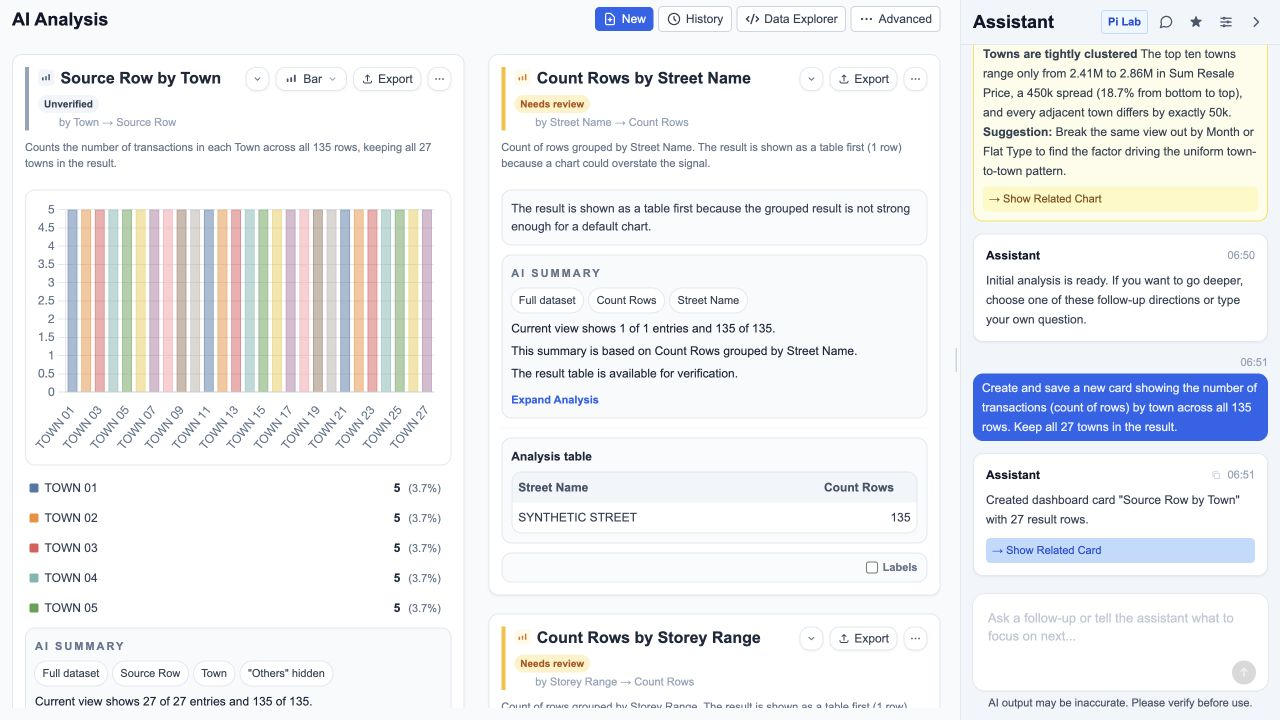
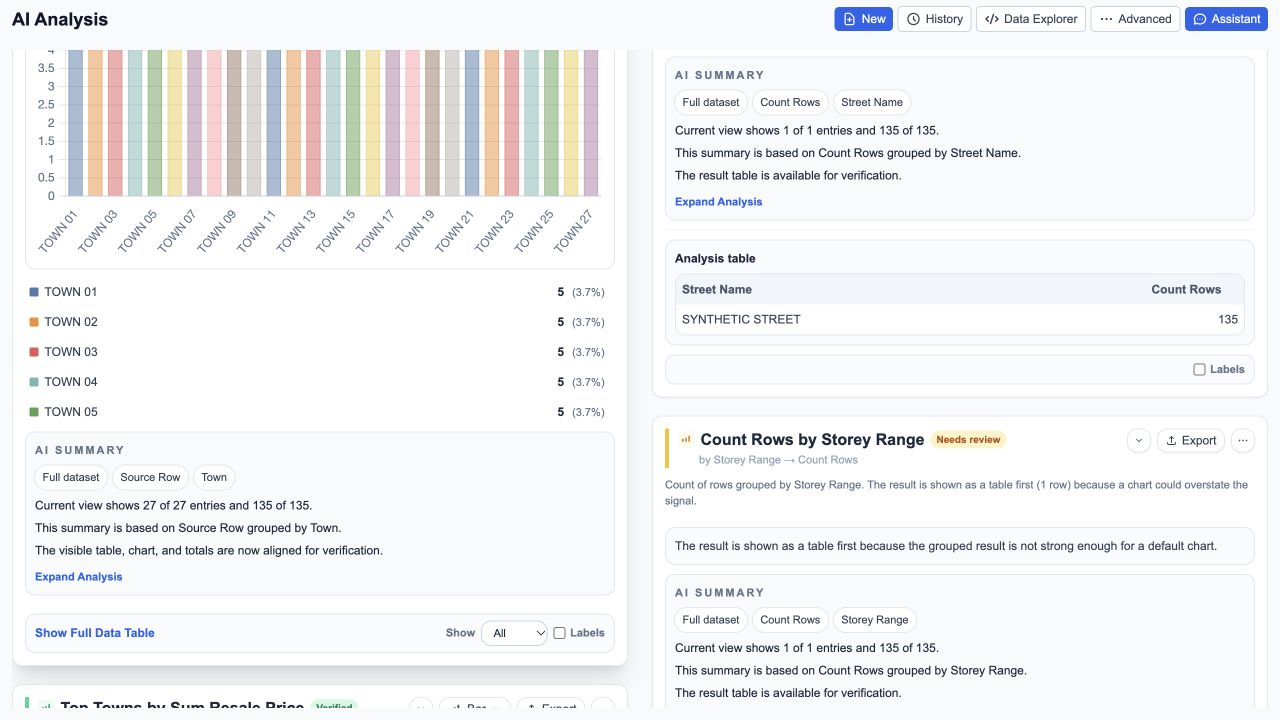
Avoid hidden Others claim in full-group cards

diff --git a/assets/csv_data_analysis_index-cW2KBJir.js b/assets/csv_data_analysis_index-cW2KBJir.js
@@ -1,4 +1,4 @@
-const __vite__mapDeps=(i,m=__vite__mapDeps,d=(m.f||(m.f=["./csv_data_analysis_vendor-ai-sdk-CVLr31yf.js","./csv_data_analysis_vendor-data-gCZ_DPYi.js","./csv_data_analysis_vendor-storage-Dda2oZrY.js","./csv_data_analysis_vendor-ai-google-Brpu0J-t.js","./csv_data_analysis_vendor-ai-openai-B8_yEsiF.js","./csv_data_analysis_ChatPanel-lyVSNLAO.js","./csv_data_analysis_vendor-react-core-DlbdMisc.js","./csv_data_analysis_vendor-state-CMf1uPe1.js","./csv_data_analysis_MarkdownRenderer-Csj8Hd6A.js","./csv_data_analysis_vendor-ui-BoCHqsEI.js","./csv_data_analysis_IconInsights-C-7nPICp.js","./csv_data_analysis_IconSettings-FS0PVK9T.js","./csv_data_analysis_IconMemory-Cs1fVUAV.js","./csv_data_analysis_IconAi-DV4Egu6s.js","./csv_data_analysis_AnalysisPanel-Q-CjNRZf.js","./csv_data_analysis_exportUtils-DfKSpD2m.js","./csv_data_analysis_IconClose-DoCpdGZg.js","./csv_data_analysis_TabulatorTable-D7JHuTAm.js","./csv_data_analysis_CleaningRunBanner-2V0oRz3I.js","./csv_data_analysis_AiTaskStatusBubble-Doqce9NC.js","./csv_data_analysis_IconSearch-j9OYkQx7.js","./csv_data_analysis_SpreadsheetPanel-7V1Z8_nN.js","./csv_data_analysis_SettingsModal-BsH-K-2a.js","./csv_data_analysis_HistoryPanel-Dal6RYkE.js","./csv_data_analysis_MemoryPanel-C8EgJCY8.js","./csv_data_analysis_AgentMonitorModal-8JBP4uk2.js","./csv_data_analysis_AgentActivityView-IeDdzTlW.js","./csv_data_analysis_DatabaseModal-B30pMha_.js","./csv_data_analysis_WorkspaceModal-CRpK5Igs.js","./csv_data_analysis_DataPreparationWorkflowModal-CfjKycZv.js","./csv_data_analysis_copyText-Di0nQNpb.js","./csv_data_analysis_DebugLogsModal-xCIO4jSe.js","./csv_data_analysis_ReportBoundaryConfirmModal-B2qKczNU.js","./csv_data_analysis_ApiKeyRequiredModal-HbiCcKkw.js","./csv_data_analysis_CloudAiConsentModal-B7JIo0IY.js"])))=>i.map(i=>d[i]);
+const __vite__mapDeps=(i,m=__vite__mapDeps,d=(m.f||(m.f=["./csv_data_analysis_vendor-ai-sdk-CVLr31yf.js","./csv_data_analysis_vendor-data-gCZ_DPYi.js","./csv_data_analysis_vendor-storage-Dda2oZrY.js","./csv_data_analysis_vendor-ai-google-Brpu0J-t.js","./csv_data_analysis_vendor-ai-openai-B8_yEsiF.js","./csv_data_analysis_ChatPanel-BS6xyxX3.js","./csv_data_analysis_vendor-react-core-DlbdMisc.js","./csv_data_analysis_vendor-state-CMf1uPe1.js","./csv_data_analysis_MarkdownRenderer-CTTp8qpO.js","./csv_data_analysis_vendor-ui-BoCHqsEI.js","./csv_data_analysis_IconInsights-C-7nPICp.js","./csv_data_analysis_IconSettings-FS0PVK9T.js","./csv_data_analysis_IconMemory-Cs1fVUAV.js","./csv_data_analysis_IconAi-DV4Egu6s.js","./csv_data_analysis_AnalysisPanel-CnWI_bBg.js","./csv_data_analysis_exportUtils-DfKSpD2m.js","./csv_data_analysis_IconClose-DoCpdGZg.js","./csv_data_analysis_TabulatorTable-D7JHuTAm.js","./csv_data_analysis_CleaningRunBanner-2V0oRz3I.js","./csv_data_analysis_AiTaskStatusBubble-DfoegMKQ.js","./csv_data_analysis_IconSearch-j9OYkQx7.js","./csv_data_analysis_SpreadsheetPanel-CU38_U4E.js","./csv_data_analysis_SettingsModal-DhUe-SH_.js","./csv_data_analysis_HistoryPanel-Cky4aLgO.js","./csv_data_analysis_MemoryPanel-B_0fJd6X.js","./csv_data_analysis_AgentMonitorModal-B7mENyJQ.js","./csv_data_analysis_AgentActivityView-IeDdzTlW.js","./csv_data_analysis_DatabaseModal-BApV_YK5.js","./csv_data_analysis_WorkspaceModal-Y41vWl9t.js","./csv_data_analysis_DataPreparationWorkflowModal-BpnjVhNN.js","./csv_data_analysis_copyText-Di0nQNpb.js","./csv_data_analysis_DebugLogsModal-CLlxi0sh.js","./csv_data_analysis_ReportBoundaryConfirmModal-BAmJ4clz.js","./csv_data_analysis_ApiKeyRequiredModal-2ikhZ6bu.js","./csv_data_analysis_CloudAiConsentModal-SDwVXITa.js"])))=>i.map(i=>d[i]);
 import { r as reactDomExports, j as jsxRuntimeExports, a as reactExports, W as We, R as ReactDOM } from "./csv_data_analysis_vendor-react-core-DlbdMisc.js";
 import { b as buildCloudAiConsentKey, s as shouldAllowAgentThinkingSurface, a as shouldAllowLongTermMemorySurface, c as shouldAllowLogsSurface, d as shouldAllowWorkflowSurface, e as shouldAllowWorkspaceSurface, f as shouldAllowDatabaseSurface, g as shouldAllowSettingsSurface, h as grantCloudAiConsent, i as getDefaultSettings, _ as __vitePreload, n as normalizeRuntimeAccessControlSettings, j as normalizeAppLanguage, k as saveSettings, l as createId, m as disposeDuckDbQueryEngine, o as getReport, C as CURRENT_SESSION_KEY, v as vectorStore, p as deleteReport, q as createIdleDuckDbSessionStatus, r as saveReport, t as deleteOriginalData, u as parseReportArtifactManifest, w as loadReportArtifactHtml, x as printReportArtifact, y as openReportArtifact, z as purgeAllStorage, A as normalizeRestoredAppState, B as resolveReportMemoryScope, D as hydrateLatestReportWorkspaceFiles, E as normalizeRestoredGoalState, F as restoreAgentActivityHistory, G as normalizeSavedReportPendingMemoryDocuments, H as normalizeSavedAgentMemoryRuns, I as normalizeSavedAgentMemoryRun, J as normalizeSavedReportMemoryDocuments, K as appendUnfinishedCleaningNotice, L as getReportsList, M as createChatMessage, N as navigateToCard, O as buildColumnRegistry, P as duckDbWorkerClient, Q as DUCKDB_INIT_TIMEOUT_MS, R as profileDataWithWorker, S as createBindingDuckDbSessionStatus, T as getOriginalData, U as getTranslation, V as getAllowedColumns, W as createProgressMessage, X as trimProgressMessages, Y as isDuckDbSessionStatusEqual, Z as primeDuckDbDataset, $ as createDuckDbSessionStatusFromBinding, a0 as captureHistoryAnalysisSnapshot, a1 as getRestoredHistoryAnalysisState, a2 as buildEffectiveColumnRegistryFromState, a3 as createWorkerDiagnosticsTelemetryReporter, a4 as parseCardMentions, a5 as buildCorrelationFields, a6 as toSerializable, a7 as normalizeAgentActivityEvent, a8 as LATEST_REPORT_MANIFEST_PATH, a9 as hasOpenableLatestReport, aa as getCurrentAnalysisDatasetVersion, ab as LATEST_REPORT_HTML_PATH, ac as generateAnalystReportArtifacts, ad as saveReportArtifacts, ae as buildPersistedReportRecord, af as isRuntimeAbortError, ag as recordLocalDiagnosticBestEffort, ah as projectToolLogToActivity, ai as projectRuntimeEventToActivity, aj as getSettings, ak as configureCloudAiConsentRuntime, al as configureLocalDiagnosticContext, am as shouldShowNewSessionButton, an as shouldShowHistoryButton, ao as shouldShowDatabaseButton, ap as shouldShowWorkflowButton, aq as shouldShowLogsButton, ar as shouldShowChangeGoalButton, as as shouldShowAssistantToggleButton, at as buildPersistedAppStateSignature, au as checkStorageHealth, av as persistCurrentAppSessionSnapshot, aw as APP_HEADER_HIDE_FOR_CARD_NAVIGATION_EVENT, ax as shouldShowAgentThinkingModal, ay as shouldShowLongTermMemory, az as formatUserError } from "./csv_data_analysis_app-agent-D8-dGKW6.js";
 import { c as createWithEqualityFn, s as shallow$1 } from "./csv_data_analysis_vendor-state-CMf1uPe1.js";
@@ -4829,20 +4829,20 @@ const PwaStatusBanner = () => {
     )
   ] });
 };
-const ChatPanel = reactExports.lazy(() => __vitePreload(() => import("./csv_data_analysis_ChatPanel-lyVSNLAO.js"), true ? __vite__mapDeps([5,0,1,2,3,4,6,7,8,9,10,11,12,13]) : void 0, import.meta.url).then((m) => ({ default: m.ChatPanel })));
-const AnalysisPanel = reactExports.lazy(() => __vitePreload(() => import("./csv_data_analysis_AnalysisPanel-Q-CjNRZf.js"), true ? __vite__mapDeps([14,6,7,10,8,9,0,1,2,3,4,15,16,17,18,19,20,11]) : void 0, import.meta.url).then((m) => ({ default: m.AnalysisPanel })));
-const SpreadsheetPanel = reactExports.lazy(() => __vitePreload(() => import("./csv_data_analysis_SpreadsheetPanel-7V1Z8_nN.js"), true ? __vite__mapDeps([21,6,17,9,0,1,2,3,4,16,13,20,7,18,10]) : void 0, import.meta.url).then((m) => ({ default: m.SpreadsheetPanel })));
-const SettingsModal = reactExports.lazy(() => __vitePreload(() => import("./csv_data_analysis_SettingsModal-BsH-K-2a.js"), true ? __vite__mapDeps([22,6,7,0,1,2,3,4]) : void 0, import.meta.url).then((module) => ({ default: module.SettingsModal })));
-const HistoryPanel = reactExports.lazy(() => __vitePreload(() => import("./csv_data_analysis_HistoryPanel-Dal6RYkE.js"), true ? __vite__mapDeps([23,6,7,0,1,2,3,4,16]) : void 0, import.meta.url).then((module) => ({ default: module.HistoryPanel })));
-const MemoryPanel = reactExports.lazy(() => __vitePreload(() => import("./csv_data_analysis_MemoryPanel-C8EgJCY8.js"), true ? __vite__mapDeps([24,6,0,1,2,3,4,16,12,7]) : void 0, import.meta.url).then((module) => ({ default: module.MemoryPanel })));
-const AgentMonitorModal = reactExports.lazy(() => __vitePreload(() => import("./csv_data_analysis_AgentMonitorModal-8JBP4uk2.js"), true ? __vite__mapDeps([25,6,7,16,19,20,11,0,1,2,3,4,26]) : void 0, import.meta.url).then((module) => ({ default: module.AgentMonitorModal })));
-const DatabaseModal = reactExports.lazy(() => __vitePreload(() => import("./csv_data_analysis_DatabaseModal-B30pMha_.js"), true ? __vite__mapDeps([27,6,7,17,9,0,1,2,3,4,16]) : void 0, import.meta.url).then((module) => ({ default: module.DatabaseModal })));
-const WorkspaceModal = reactExports.lazy(() => __vitePreload(() => import("./csv_data_analysis_WorkspaceModal-CRpK5Igs.js"), true ? __vite__mapDeps([28,0,1,2,3,4,6,7,16]) : void 0, import.meta.url).then((module) => ({ default: module.WorkspaceModal })));
-const DataPreparationWorkflowModal = reactExports.lazy(() => __vitePreload(() => import("./csv_data_analysis_DataPreparationWorkflowModal-CfjKycZv.js"), true ? __vite__mapDeps([29,6,7,0,1,2,3,4,30,16,26,15]) : void 0, import.meta.url).then((module) => ({ default: module.DataPreparationWorkflowModal })));
-const DebugLogsModal = reactExports.lazy(() => __vitePreload(() => import("./csv_data_analysis_DebugLogsModal-xCIO4jSe.js"), true ? __vite__mapDeps([31,6,7,0,1,2,3,4,30,16]) : void 0, import.meta.url).then((module) => ({ default: module.DebugLogsModal })));
-const ReportBoundaryConfirmModal = reactExports.lazy(() => __vitePreload(() => import("./csv_data_analysis_ReportBoundaryConfirmModal-B2qKczNU.js"), true ? __vite__mapDeps([32,6,0,1,2,3,4,7]) : void 0, import.meta.url).then((module) => ({ default: module.ReportBoundaryConfirmModal })));
-const ApiKeyRequiredModal = reactExports.lazy(() => __vitePreload(() => import("./csv_data_analysis_ApiKeyRequiredModal-HbiCcKkw.js"), true ? __vite__mapDeps([33,6,0,1,2,3,4,7]) : void 0, import.meta.url).then((module) => ({ default: module.ApiKeyRequiredModal })));
-const CloudAiConsentModal = reactExports.lazy(() => __vitePreload(() => import("./csv_data_analysis_CloudAiConsentModal-B7JIo0IY.js"), true ? __vite__mapDeps([34,6,7,0,1,2,3,4]) : void 0, import.meta.url).then((module) => ({ default: module.CloudAiConsentModal })));
+const ChatPanel = reactExports.lazy(() => __vitePreload(() => import("./csv_data_analysis_ChatPanel-BS6xyxX3.js"), true ? __vite__mapDeps([5,0,1,2,3,4,6,7,8,9,10,11,12,13]) : void 0, import.meta.url).then((m) => ({ default: m.ChatPanel })));
+const AnalysisPanel = reactExports.lazy(() => __vitePreload(() => import("./csv_data_analysis_AnalysisPanel-CnWI_bBg.js"), true ? __vite__mapDeps([14,6,7,10,8,9,0,1,2,3,4,15,16,17,18,19,20,11]) : void 0, import.meta.url).then((m) => ({ default: m.AnalysisPanel })));
+const SpreadsheetPanel = reactExports.lazy(() => __vitePreload(() => import("./csv_data_analysis_SpreadsheetPanel-CU38_U4E.js"), true ? __vite__mapDeps([21,6,17,9,0,1,2,3,4,16,13,20,7,18,10]) : void 0, import.meta.url).then((m) => ({ default: m.SpreadsheetPanel })));
+const SettingsModal = reactExports.lazy(() => __vitePreload(() => import("./csv_data_analysis_SettingsModal-DhUe-SH_.js"), true ? __vite__mapDeps([22,6,7,0,1,2,3,4]) : void 0, import.meta.url).then((module) => ({ default: module.SettingsModal })));
+const HistoryPanel = reactExports.lazy(() => __vitePreload(() => import("./csv_data_analysis_HistoryPanel-Cky4aLgO.js"), true ? __vite__mapDeps([23,6,7,0,1,2,3,4,16]) : void 0, import.meta.url).then((module) => ({ default: module.HistoryPanel })));
+const MemoryPanel = reactExports.lazy(() => __vitePreload(() => import("./csv_data_analysis_MemoryPanel-B_0fJd6X.js"), true ? __vite__mapDeps([24,6,0,1,2,3,4,16,12,7]) : void 0, import.meta.url).then((module) => ({ default: module.MemoryPanel })));
+const AgentMonitorModal = reactExports.lazy(() => __vitePreload(() => import("./csv_data_analysis_AgentMonitorModal-B7mENyJQ.js"), true ? __vite__mapDeps([25,6,7,16,19,20,11,0,1,2,3,4,26]) : void 0, import.meta.url).then((module) => ({ default: module.AgentMonitorModal })));
+const DatabaseModal = reactExports.lazy(() => __vitePreload(() => import("./csv_data_analysis_DatabaseModal-BApV_YK5.js"), true ? __vite__mapDeps([27,6,7,17,9,0,1,2,3,4,16]) : void 0, import.meta.url).then((module) => ({ default: module.DatabaseModal })));
+const WorkspaceModal = reactExports.lazy(() => __vitePreload(() => import("./csv_data_analysis_WorkspaceModal-Y41vWl9t.js"), true ? __vite__mapDeps([28,0,1,2,3,4,6,7,16]) : void 0, import.meta.url).then((module) => ({ default: module.WorkspaceModal })));
+const DataPreparationWorkflowModal = reactExports.lazy(() => __vitePreload(() => import("./csv_data_analysis_DataPreparationWorkflowModal-BpnjVhNN.js"), true ? __vite__mapDeps([29,6,7,0,1,2,3,4,30,16,26,15]) : void 0, import.meta.url).then((module) => ({ default: module.DataPreparationWorkflowModal })));
+const DebugLogsModal = reactExports.lazy(() => __vitePreload(() => import("./csv_data_analysis_DebugLogsModal-CLlxi0sh.js"), true ? __vite__mapDeps([31,6,7,0,1,2,3,4,30,16]) : void 0, import.meta.url).then((module) => ({ default: module.DebugLogsModal })));
+const ReportBoundaryConfirmModal = reactExports.lazy(() => __vitePreload(() => import("./csv_data_analysis_ReportBoundaryConfirmModal-BAmJ4clz.js"), true ? __vite__mapDeps([32,6,0,1,2,3,4,7]) : void 0, import.meta.url).then((module) => ({ default: module.ReportBoundaryConfirmModal })));
+const ApiKeyRequiredModal = reactExports.lazy(() => __vitePreload(() => import("./csv_data_analysis_ApiKeyRequiredModal-2ikhZ6bu.js"), true ? __vite__mapDeps([33,6,0,1,2,3,4,7]) : void 0, import.meta.url).then((module) => ({ default: module.ApiKeyRequiredModal })));
+const CloudAiConsentModal = reactExports.lazy(() => __vitePreload(() => import("./csv_data_analysis_CloudAiConsentModal-SDwVXITa.js"), true ? __vite__mapDeps([34,6,7,0,1,2,3,4]) : void 0, import.meta.url).then((module) => ({ default: module.CloudAiConsentModal })));
 const SpreadsheetPanelGate = We.memo(({ isVisible }) => {
   const isPipelineActive = useAppStore((state2) => {
     const task = state2.aiTaskStatus;

diff --git a/assets/csv_data_analysis_AnalysisPanel-CnWI_bBg.js b/assets/csv_data_analysis_AnalysisPanel-CnWI_bBg.js
@@ -1,16 +1,16 @@
 import { W as We, a as reactExports, j as jsxRuntimeExports, r as reactDomExports } from "./csv_data_analysis_vendor-react-core-DlbdMisc.js";
 import { s as shallow$1 } from "./csv_data_analysis_vendor-state-CMf1uPe1.js";
 import { I as IconInsights } from "./csv_data_analysis_IconInsights-C-7nPICp.js";
-import { M as MarkdownRenderer } from "./csv_data_analysis_MarkdownRenderer-Csj8Hd6A.js";
+import { M as MarkdownRenderer } from "./csv_data_analysis_MarkdownRenderer-CTTp8qpO.js";
 import { U as getTranslation, aa as getCurrentAnalysisDatasetVersion, aH as resolveAnalysisArtifactFreshness, aI as summarizeDataQualityForEndUser, aJ as normalizeCategoryLabel, aK as parseNumericValue, aL as formatAnalysisValue, aM as formatAnalysisMeasureValue, aN as formatTemporalDisplayValue, aO as isAdditiveAggregation, aP as isTemporalDisplayColumn, aQ as applyTopNWithOthers, aR as buildPivotStackedChartState, aS as DEFAULT_STACKED_PIVOT_COLUMN_TOP_N, aC as resolveDisplayPlanTitle, aT as resolveDisplayPlanDescription, aU as resolvePlanGroupLabel, aV as resolvePlanMetricLabel, aW as getBarChartReadabilityHints, aX as PIVOT_FOLDED_OTHERS_KEY, aY as collectOrderedColumnNames, aZ as getNumericColumns, a_ as getAnalysisColumnLabels, a$ as coerceNumericValue, b0 as formatAnalysisCellValue, b1 as isProviderConfigured, b2 as createProviderModel, b3 as resolveCardTrustDecision, b4 as getLocalizedText, b5 as evaluateChartPresentation, b6 as getAvailableChartTypes, b7 as isTimeLikeDimensionColumn, b8 as buildStackedPivotChartPlan, b9 as getPivotCardQualitySummary, ba as normalizeDisplayLabel, bb as isUsableReportTitle, bc as isLatestReportPartial, bd as resolveLatestReportBlockedInfo, a9 as hasOpenableLatestReport, be as resolveAnalysisCompletionGate, bf as buildDisplayAnalysisIr, bg as DEFAULT_AUTO_ANALYSIS_GOAL, bh as buildExecutiveKpis, bi as resolveEffectiveReportContext, bj as shouldShowDataWarnings, bk as getCsvDataRowCount, g as shouldAllowSettingsSurface } from "./csv_data_analysis_app-agent-D8-dGKW6.js";
-import { u as useAppStore, a as IconWarning, b as IconMoreHorizontal, g as getCachedChart, c as computeChartCacheKey, d as computeDataContentHash, s as setCachedChart, e as useDialogAccessibility, E as ErrorBoundary } from "./csv_data_analysis_index-BcDkep5Z.js";
+import { u as useAppStore, a as IconWarning, b as IconMoreHorizontal, g as getCachedChart, c as computeChartCacheKey, d as computeDataContentHash, s as setCachedChart, e as useDialogAccessibility, E as ErrorBoundary } from "./csv_data_analysis_index-cW2KBJir.js";
 import { C as Chart, p as plugin, a as plugin$1, M as Masonry } from "./csv_data_analysis_vendor-ui-BoCHqsEI.js";
 import { e as exportToHtml, a as exportToCsv, b as exportToPng } from "./csv_data_analysis_exportUtils-DfKSpD2m.js";
 import { I as IconClose } from "./csv_data_analysis_IconClose-DoCpdGZg.js";
 import { T as TabulatorTable } from "./csv_data_analysis_TabulatorTable-D7JHuTAm.js";
 import { V as ViewModeToggle, G as GroupByTest, f as formatNumber, D as DataTable$1, C as CleaningRunBanner } from "./csv_data_analysis_CleaningRunBanner-2V0oRz3I.js";
 import { g as generateText } from "./csv_data_analysis_vendor-ai-sdk-CVLr31yf.js";
-import { A as AiTaskStatusBubble } from "./csv_data_analysis_AiTaskStatusBubble-Doqce9NC.js";
+import { A as AiTaskStatusBubble } from "./csv_data_analysis_AiTaskStatusBubble-DfoegMKQ.js";
 import "./csv_data_analysis_vendor-data-gCZ_DPYi.js";
 import "./csv_data_analysis_vendor-storage-Dda2oZrY.js";
 import "./csv_data_analysis_vendor-ai-google-Brpu0J-t.js";
@@ -2065,6 +2065,8 @@ const AnalysisCardSummaryComponent = ({
     return getTranslation("analysis_card_scope_filter", language, { column: filter.column, values });
   }, [filter, language]);
   const formatSummaryMeasure = plan.aggregation === "count" ? formatAnalysisValue : formatAnalysisMeasureValue;
+  const hasFoldedGroups = topN !== null && displayedRowCount < totalRowCount;
+  const showsHiddenOthers = hasAdditiveMeasure && hasFoldedGroups && hideOthers;
   const previewLines = reactExports.useMemo(() => {
     var _a2;
     const lines = [
@@ -2082,12 +2084,12 @@ const AnalysisCardSummaryComponent = ({
         dimension: displayedGroupLabel
       })
     ];
-    if (topN || hasAdditiveMeasure && hideOthers || hiddenLabelCount > 0 || filterLabel) {
+    if (topN || hiddenLabelCount > 0 || filterLabel) {
       const params = {
         scope: scopeLabel,
         hidden: hiddenLabelCount > 0 ? getTranslation("analysis_card_scope_hidden_count", language, { count: String(hiddenLabelCount) }) : getTranslation("analysis_card_scope_no_hidden", language)
       };
-      lines.push(hasAdditiveMeasure ? getTranslation("analysis_card_view_line_focus", language, {
+      lines.push(hasAdditiveMeasure && hasFoldedGroups ? getTranslation("analysis_card_view_line_focus", language, {
         ...params,
         others: hideOthers ? getTranslation("analysis_card_scope_hide_others", language) : getTranslation("analysis_card_scope_include_others", language)
       }) : getTranslation("analysis_card_view_line_focus_non_additive", language, params));
@@ -2103,6 +2105,7 @@ const AnalysisCardSummaryComponent = ({
     hiddenLabelCount,
     hideOthers,
     hasAdditiveMeasure,
+    hasFoldedGroups,
     language,
     overallTotalValue,
     plan.aggregation,
@@ -2186,7 +2189,7 @@ const AnalysisCardSummaryComponent = ({
       /* @__PURE__ */ jsxRuntimeExports.jsx("span", { className: "rounded-full bg-white px-2.5 py-1 text-[11px] font-medium text-slate-700 ring-1 ring-slate-200", children: scopeLabel }),
       /* @__PURE__ */ jsxRuntimeExports.jsx("span", { className: "rounded-full bg-white px-2.5 py-1 text-[11px] font-medium text-slate-700 ring-1 ring-slate-200", children: displayedMetricLabel }),
       /* @__PURE__ */ jsxRuntimeExports.jsx("span", { className: "rounded-full bg-white px-2.5 py-1 text-[11px] font-medium text-slate-700 ring-1 ring-slate-200", children: displayedGroupLabel }),
-      hasAdditiveMeasure && hideOthers && /* @__PURE__ */ jsxRuntimeExports.jsx("span", { className: "rounded-full bg-white px-2.5 py-1 text-[11px] font-medium text-slate-700 ring-1 ring-slate-200", children: getTranslation("analysis_card_scope_hide_others", language) }),
+      showsHiddenOthers && /* @__PURE__ */ jsxRuntimeExports.jsx("span", { className: "rounded-full bg-white px-2.5 py-1 text-[11px] font-medium text-slate-700 ring-1 ring-slate-200", children: getTranslation("analysis_card_scope_hide_others", language) }),
       filterLabel && /* @__PURE__ */ jsxRuntimeExports.jsx("span", { className: "rounded-full bg-white px-2.5 py-1 text-[11px] font-medium text-slate-700 ring-1 ring-slate-200", children: filterLabel })
     ] }),
     /* @__PURE__ */ jsxRuntimeExports.jsx("div", { className: "space-y-1 text-slate-800", children: previewLines.map((line, index) => /* @__PURE__ */ jsxRuntimeExports.jsx("p", { className: "leading-relaxed", children: line }, `summary-preview-${index}`)) }),

diff --git a/assets/csv_data_analysis_ChatPanel-BS6xyxX3.js b/assets/csv_data_analysis_ChatPanel-BS6xyxX3.js
@@ -1,9 +1,9 @@
-const __vite__mapDeps=(i,m=__vite__mapDeps,d=(m.f||(m.f=["./csv_data_analysis_PiBrowserLab-BAZ3LQP1.js","./csv_data_analysis_vendor-ai-sdk-CVLr31yf.js","./csv_data_analysis_vendor-data-gCZ_DPYi.js","./csv_data_analysis_vendor-storage-Dda2oZrY.js","./csv_data_analysis_vendor-ai-google-Brpu0J-t.js","./csv_data_analysis_vendor-ai-openai-B8_yEsiF.js","./csv_data_analysis_vendor-react-core-DlbdMisc.js","./csv_data_analysis_index-BcDkep5Z.js","./csv_data_analysis_vendor-state-CMf1uPe1.js"])))=>i.map(i=>d[i]);
+const __vite__mapDeps=(i,m=__vite__mapDeps,d=(m.f||(m.f=["./csv_data_analysis_PiBrowserLab-B2NkE9hH.js","./csv_data_analysis_vendor-ai-sdk-CVLr31yf.js","./csv_data_analysis_vendor-data-gCZ_DPYi.js","./csv_data_analysis_vendor-storage-Dda2oZrY.js","./csv_data_analysis_vendor-ai-google-Brpu0J-t.js","./csv_data_analysis_vendor-ai-openai-B8_yEsiF.js","./csv_data_analysis_vendor-react-core-DlbdMisc.js","./csv_data_analysis_index-cW2KBJir.js","./csv_data_analysis_vendor-state-CMf1uPe1.js"])))=>i.map(i=>d[i]);
 import { U as getTranslation, aA as normalizeClarificationRequest, aB as resolveEffectivePendingClarification, aC as resolveDisplayPlanTitle, aD as resolveSuggestedActionPrompt, aE as MAX_TIMELINE_CHAT_MESSAGES, aF as TERMINAL_CHAT_LIFECYCLE_STATES, aG as shouldShowSettingsButton, ax as shouldShowAgentThinkingModal, ay as shouldShowLongTermMemory, _ as __vitePreload, g as shouldAllowSettingsSurface } from "./csv_data_analysis_app-agent-D8-dGKW6.js";
 import { a as reactExports, j as jsxRuntimeExports, W as We } from "./csv_data_analysis_vendor-react-core-DlbdMisc.js";
 import { s as shallow$1 } from "./csv_data_analysis_vendor-state-CMf1uPe1.js";
-import { u as useAppStore, I as IconChangeGoal } from "./csv_data_analysis_index-BcDkep5Z.js";
-import { M as MarkdownRenderer } from "./csv_data_analysis_MarkdownRenderer-Csj8Hd6A.js";
+import { u as useAppStore, I as IconChangeGoal } from "./csv_data_analysis_index-cW2KBJir.js";
+import { M as MarkdownRenderer } from "./csv_data_analysis_MarkdownRenderer-CTTp8qpO.js";
 import { I as IconInsights } from "./csv_data_analysis_IconInsights-C-7nPICp.js";
 import { I as IconThinking, a as IconSettings } from "./csv_data_analysis_IconSettings-FS0PVK9T.js";
 import { I as IconMemory } from "./csv_data_analysis_IconMemory-Cs1fVUAV.js";
@@ -1033,7 +1033,7 @@ const ChatComposer = ({
     /* @__PURE__ */ jsxRuntimeExports.jsx("p", { id: disclaimerTextId, className: "mt-1.5 text-center text-xs text-slate-600", children: getTranslation("chat_disclaimer_verify", language) })
   ] }) });
 };
-const PiBrowserLab = reactExports.lazy(() => __vitePreload(() => import("./csv_data_analysis_PiBrowserLab-BAZ3LQP1.js"), true ? __vite__mapDeps([0,1,2,3,4,5,6,7,8]) : void 0, import.meta.url).then((module) => ({ default: module.PiBrowserLab })));
+const PiBrowserLab = reactExports.lazy(() => __vitePreload(() => import("./csv_data_analysis_PiBrowserLab-B2NkE9hH.js"), true ? __vite__mapDeps([0,1,2,3,4,5,6,7,8]) : void 0, import.meta.url).then((module) => ({ default: module.PiBrowserLab })));
 const chatDebug = (message, detail) => {
   return;
 };

diff --git a/frontend/components/analysis-card/AnalysisCardSummary.tsx b/frontend/components/analysis-card/AnalysisCardSummary.tsx
@@ -85,6 +85,8 @@ const AnalysisCardSummaryComponent: React.FC<AnalysisCardSummaryProps> = ({
     const formatSummaryMeasure = plan.aggregation === 'count'
         ? formatAnalysisValue
         : formatAnalysisMeasureValue;
+    const hasFoldedGroups = topN !== null && displayedRowCount < totalRowCount;
+    const showsHiddenOthers = hasAdditiveMeasure && hasFoldedGroups && hideOthers;
     const previewLines = useMemo(() => {
         const lines = [
             hasAdditiveMeasure
@@ -106,14 +108,14 @@ const AnalysisCardSummaryComponent: React.FC<AnalysisCardSummaryProps> = ({
             }),
         ];
 
-        if (topN || (hasAdditiveMeasure && hideOthers) || hiddenLabelCount > 0 || filterLabel) {
+        if (topN || hiddenLabelCount > 0 || filterLabel) {
             const params = {
                 scope: scopeLabel,
                 hidden: hiddenLabelCount > 0
                     ? getTranslation('analysis_card_scope_hidden_count', language, { count: String(hiddenLabelCount) })
                     : getTranslation('analysis_card_scope_no_hidden', language),
             };
-            lines.push(hasAdditiveMeasure
+            lines.push(hasAdditiveMeasure && hasFoldedGroups
                 ? getTranslation('analysis_card_view_line_focus', language, {
                     ...params,
                     others: hideOthers ? getTranslation('analysis_card_scope_hide_others', language) : getTranslation('analysis_card_scope_include_others', language),
@@ -136,6 +138,7 @@ const AnalysisCardSummaryComponent: React.FC<AnalysisCardSummaryProps> = ({
         hiddenLabelCount,
         hideOthers,
         hasAdditiveMeasure,
+        hasFoldedGroups,
         language,
         overallTotalValue,
         plan.aggregation,
@@ -246,7 +249,7 @@ const AnalysisCardSummaryComponent: React.FC<AnalysisCardSummaryProps> = ({
                     <span className="rounded-full bg-white px-2.5 py-1 text-[11px] font-medium text-slate-700 ring-1 ring-slate-200">
                         {displayedGroupLabel}
                     </span>
-                    {hasAdditiveMeasure && hideOthers && (
+                    {showsHiddenOthers && (
                         <span className="rounded-full bg-white px-2.5 py-1 text-[11px] font-medium text-slate-700 ring-1 ring-slate-200">
                             {getTranslation('analysis_card_scope_hide_others', language)}
                         </span>

diff --git a/service-worker.js b/service-worker.js
@@ -1,16 +1,16 @@
-const BUILD_VERSION = '1.0.0-3da31bbadd23';
+const BUILD_VERSION = '1.0.0-1975f0b0f906';
 const PRECACHE_URLS = [
   "./",
   "./app-icon.svg",
-  "./assets/csv_data_analysis_AnalysisPanel-Q-CjNRZf.js",
-  "./assets/csv_data_analysis_DatabaseModal-B30pMha_.js",
-  "./assets/csv_data_analysis_HistoryPanel-Dal6RYkE.js",
-  "./assets/csv_data_analysis_MarkdownRenderer-Csj8Hd6A.js",
-  "./assets/csv_data_analysis_SettingsModal-BsH-K-2a.js",
-  "./assets/csv_data_analysis_SpreadsheetPanel-7V1Z8_nN.js",
+  "./assets/csv_data_analysis_AnalysisPanel-CnWI_bBg.js",
+  "./assets/csv_data_analysis_DatabaseModal-BApV_YK5.js",
+  "./assets/csv_data_analysis_HistoryPanel-Cky4aLgO.js",
+  "./assets/csv_data_analysis_MarkdownRenderer-CTTp8qpO.js",
+  "./assets/csv_data_analysis_SettingsModal-DhUe-SH_.js",
+  "./assets/csv_data_analysis_SpreadsheetPanel-CU38_U4E.js",
   "./assets/csv_data_analysis_TabulatorTable-D7JHuTAm.js",
   "./assets/csv_data_analysis_exportUtils-DfKSpD2m.js",
-  "./assets/csv_data_analysis_index-BcDkep5Z.js",
+  "./assets/csv_data_analysis_index-cW2KBJir.js",
   "./assets/csv_data_analysis_style-5rP7qYo4.css",
   "./assets/csv_data_analysis_vendor-ai-google-Brpu0J-t.js",
   "./assets/csv_data_analysis_vendor-ai-openai-B8_yEsiF.js",

diff --git a/assets/csv_data_analysis_SettingsModal-DhUe-SH_.js b/assets/csv_data_analysis_SettingsModal-DhUe-SH_.js
@@ -1,6 +1,6 @@
 import { a as reactExports, j as jsxRuntimeExports } from "./csv_data_analysis_vendor-react-core-DlbdMisc.js";
 import { s as shallow$1 } from "./csv_data_analysis_vendor-state-CMf1uPe1.js";
-import { u as useAppStore, h as usePwaLifecycle, e as useDialogAccessibility, r as refreshPwaStorageEstimate } from "./csv_data_analysis_index-BcDkep5Z.js";
+import { u as useAppStore, h as usePwaLifecycle, e as useDialogAccessibility, r as refreshPwaStorageEstimate } from "./csv_data_analysis_index-cW2KBJir.js";
 import { U as getTranslation, bs as DEFAULT_GATEWAY_MODEL, bt as GOOGLE_MODELS, bu as OPENAI_MODELS, bv as DEFAULT_FALLBACK_MODEL, bw as SUPPORTED_APP_LANGUAGES, bx as DEFAULT_MAX_AGENT_TURNS, by as MAX_MAX_AGENT_TURNS, bz as MIN_MAX_AGENT_TURNS, bA as DEFAULT_TOOL_OUTPUT_CUTOFF, bB as MAX_TOOL_OUTPUT_CUTOFF, bC as MIN_TOOL_OUTPUT_CUTOFF, bD as DEFAULT_GOOGLE_MODEL, b2 as createProviderModel, bE as clearCloudAiConsentRuntimeDecisions, bF as clearAllLocalBrowserData } from "./csv_data_analysis_app-agent-D8-dGKW6.js";
 import { g as generateText } from "./csv_data_analysis_vendor-ai-sdk-CVLr31yf.js";
 import "./csv_data_analysis_vendor-data-gCZ_DPYi.js";

diff --git a/assets/csv_data_analysis_AiTaskStatusBubble-DfoegMKQ.js b/assets/csv_data_analysis_AiTaskStatusBubble-DfoegMKQ.js
@@ -1,7 +1,7 @@
 import { j as jsxRuntimeExports } from "./csv_data_analysis_vendor-react-core-DlbdMisc.js";
 import { I as IconSearch } from "./csv_data_analysis_IconSearch-j9OYkQx7.js";
 import { a as IconSettings, I as IconThinking } from "./csv_data_analysis_IconSettings-FS0PVK9T.js";
-import { u as useAppStore, a as IconWarning } from "./csv_data_analysis_index-BcDkep5Z.js";
+import { u as useAppStore, a as IconWarning } from "./csv_data_analysis_index-cW2KBJir.js";
 import { U as getTranslation } from "./csv_data_analysis_app-agent-D8-dGKW6.js";
 const IconCheck = (props) => /* @__PURE__ */ jsxRuntimeExports.jsx("svg", { xmlns: "http://www.w3.org/2000/svg", className: "h-3 w-3", fill: "none", viewBox: "0 0 24 24", stroke: "currentColor", ...props, children: /* @__PURE__ */ jsxRuntimeExports.jsx("path", { strokeLinecap: "round", strokeLinejoin: "round", strokeWidth: "3", d: "M5 13l4 4L19 7" }) });
 const IconWrapper = ({ children, colorClass }) => /* @__PURE__ */ jsxRuntimeExports.jsx("div", { className: `flex-shrink-0 w-10 h-10 rounded-full flex items-center justify-center ${colorClass}`, children });

diff --git a/frontend/tests/analysisCardSummary.test.tsx b/frontend/tests/analysisCardSummary.test.tsx
@@ -15,6 +15,27 @@ afterEach(() => {
 });
 
 describe('AnalysisCardSummary', () => {
+    it('does not claim an Others bucket is hidden when all groups are visible', () => {
+        render(<AnalysisCardSummary
+            cardId="all-groups"
+            plan={{ ...plan, aggregation: 'count' }}
+            totalValue={135}
+            overallTotalValue={135}
+            displayedRowCount={27}
+            totalRowCount={27}
+            displayedMetricLabel="Count Rows"
+            displayedGroupLabel="Town"
+            topN={null}
+            hideOthers={true}
+            hiddenLabelCount={0}
+            language="English"
+        />);
+
+        expect(screen.getByText('Full dataset')).toBeInTheDocument();
+        expect(screen.queryByText('"Others" hidden')).not.toBeInTheDocument();
+        expect(screen.queryByText(/Scope: Full dataset; "Others" hidden/)).not.toBeInTheDocument();
+    });
+
     it('describes table-only results without promising a chart', () => {
         render(<AnalysisCardSummary
             cardId="table-only"

diff --git a/assets/csv_data_analysis_SpreadsheetPanel-CU38_U4E.js b/assets/csv_data_analysis_SpreadsheetPanel-CU38_U4E.js
@@ -1,7 +1,7 @@
 import { a as reactExports, j as jsxRuntimeExports, W as We } from "./csv_data_analysis_vendor-react-core-DlbdMisc.js";
 import { T as TabulatorTable } from "./csv_data_analysis_TabulatorTable-D7JHuTAm.js";
 import { U as getTranslation, bl as applySpreadsheetFilterOperation, bm as buildDataPreparationWorkflowBundle, bn as resolveDatasetBindingTarget, aY as collectOrderedColumnNames, a2 as buildEffectiveColumnRegistryFromState, bo as buildDisplayLabelMap, bp as buildColumnDisplayLabels, bq as getSemanticHiddenRowCount, br as isPreviewDataQuery } from "./csv_data_analysis_app-agent-D8-dGKW6.js";
-import { u as useAppStore, f as IconLoadingSpinner } from "./csv_data_analysis_index-BcDkep5Z.js";
+import { u as useAppStore, f as IconLoadingSpinner } from "./csv_data_analysis_index-cW2KBJir.js";
 import { I as IconClose } from "./csv_data_analysis_IconClose-DoCpdGZg.js";
 import { I as IconAi } from "./csv_data_analysis_IconAi-DV4Egu6s.js";
 import { I as IconSearch } from "./csv_data_analysis_IconSearch-j9OYkQx7.js";

diff --git a/assets/csv_data_analysis_DebugLogsModal-CLlxi0sh.js b/assets/csv_data_analysis_DebugLogsModal-CLlxi0sh.js
@@ -1,6 +1,6 @@
 import { j as jsxRuntimeExports, a as reactExports } from "./csv_data_analysis_vendor-react-core-DlbdMisc.js";
 import { s as shallow$1 } from "./csv_data_analysis_vendor-state-CMf1uPe1.js";
-import { u as useAppStore, e as useDialogAccessibility } from "./csv_data_analysis_index-BcDkep5Z.js";
+import { u as useAppStore, e as useDialogAccessibility } from "./csv_data_analysis_index-cW2KBJir.js";
 import { bW as isEndUserMode, U as getTranslation, bX as selectDebugTimelineEntries, bY as selectDebugFlows, bZ as selectRuntimeLogsExport, b_ as selectRecentPayloadSnapshotsExport, b$ as selectIrDiagnostics, c0 as selectPlannerFailureBundle, c1 as selectSqlFailureBundle, c2 as selectDebugOperatorSummary, c3 as loadRecentLocalDiagnostics, c4 as selectAiDebugBundle } from "./csv_data_analysis_app-agent-D8-dGKW6.js";
 import { c as copyText } from "./csv_data_analysis_copyText-Di0nQNpb.js";
 import { I as IconClose } from "./csv_data_analysis_IconClose-DoCpdGZg.js";

diff --git a/assets/csv_data_analysis_DatabaseModal-BApV_YK5.js b/assets/csv_data_analysis_DatabaseModal-BApV_YK5.js
@@ -1,7 +1,7 @@
 import { j as jsxRuntimeExports, a as reactExports } from "./csv_data_analysis_vendor-react-core-DlbdMisc.js";
 import { s as shallow$1 } from "./csv_data_analysis_vendor-state-CMf1uPe1.js";
 import { T as TabulatorTable } from "./csv_data_analysis_TabulatorTable-D7JHuTAm.js";
-import { u as useAppStore, e as useDialogAccessibility } from "./csv_data_analysis_index-BcDkep5Z.js";
+import { u as useAppStore, e as useDialogAccessibility } from "./csv_data_analysis_index-cW2KBJir.js";
 import { I as IconClose } from "./csv_data_analysis_IconClose-DoCpdGZg.js";
 import { bK as summarizeTraceContract, U as getTranslation, bL as WORKSPACE_QUERY_LIMIT_OPTIONS, bM as DEFAULT_WORKSPACE_QUERY_LIMIT, bN as WORKSPACE_QUERY_TEMPLATE_OPTIONS, a2 as buildEffectiveColumnRegistryFromState, bO as createDefaultWorkspaceQueryDrafts, q as createIdleDuckDbSessionStatus } from "./csv_data_analysis_app-agent-D8-dGKW6.js";
 import "./csv_data_analysis_vendor-ui-BoCHqsEI.js";

diff --git a/assets/csv_data_analysis_DataPreparationWorkflowModal-BpnjVhNN.js b/assets/csv_data_analysis_DataPreparationWorkflowModal-BpnjVhNN.js
@@ -1,6 +1,6 @@
 import { W as We, j as jsxRuntimeExports, a as reactExports } from "./csv_data_analysis_vendor-react-core-DlbdMisc.js";
 import { s as shallow$1 } from "./csv_data_analysis_vendor-state-CMf1uPe1.js";
-import { u as useAppStore, e as useDialogAccessibility } from "./csv_data_analysis_index-BcDkep5Z.js";
+import { u as useAppStore, e as useDialogAccessibility } from "./csv_data_analysis_index-cW2KBJir.js";
 import { bK as summarizeTraceContract, aa as getCurrentAnalysisDatasetVersion, b3 as resolveCardTrustDecision, bm as buildDataPreparationWorkflowBundle, U as getTranslation, bR as readDatasetFileFromOpfs, bk as getCsvDataRowCount, bS as getSandboxTableRows, bT as buildWorkflowSnapshotExport, bU as buildCleaningFailureBundleExport } from "./csv_data_analysis_app-agent-D8-dGKW6.js";
 import { c as copyText } from "./csv_data_analysis_copyText-Di0nQNpb.js";
 import { I as IconClose } from "./csv_data_analysis_IconClose-DoCpdGZg.js";
